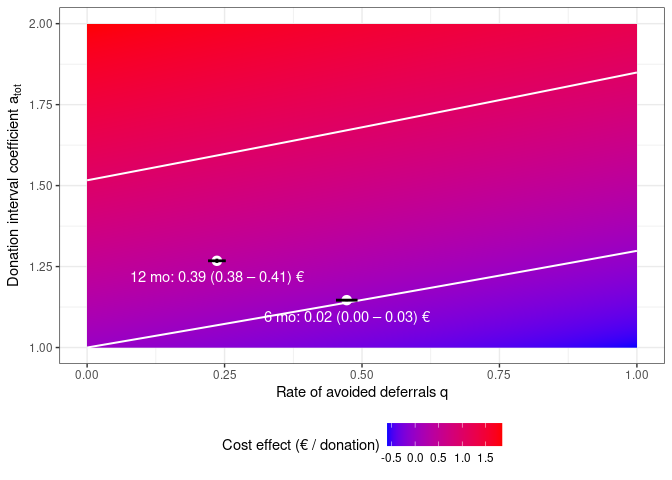
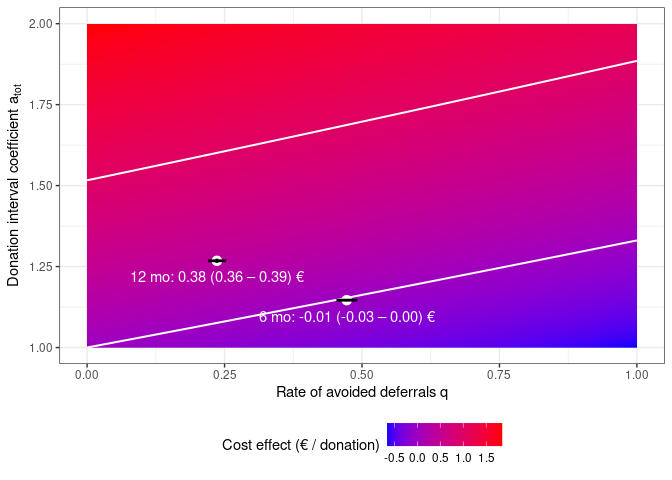
Yet again tweaked economic parameter values.

diff --git a/src/new_economic_parameters.md b/src/new_economic_parameters.md
@@ -2,7 +2,8 @@
 
 Try the economic effect calculations with the new parameters values.
 
-    new_fixed_parameters <- list(Pm=2.287, Pd=18.08, F=1, Fn=0.1066, rloss=0)
+    new_fixed_parameters <- list(Pm=2.287, Pd=19.96, F=1, Fn=0.1066, rloss=0)
+    #new_fixed_parameters <- list(Pm=2.287, Pd=18.08, F=1, Fn=0.1066, rloss=0)
 
     new_parameters <- c(data_parameters, new_fixed_parameters)
     if (compute) {
@@ -28,10 +29,10 @@ The cost surface below is for the random forest on eProgesa data.
     g <- draw_surface(results=all_results %>% filter(Id == "progesa-both-rf"), cost_function=do.call(cost_func_factory, new_parameters[c("Pm", "Pd", "F", "Fn", "rloss", "d")]))
 
     ## # A tibble: 2 × 11
-    ##   Id      month E_value   E_low E_high a_value a_low a_high q_value q_low q_high
-    ##   <chr>   <int>   <dbl>   <dbl>  <dbl>   <dbl> <dbl>  <dbl>   <dbl> <dbl>  <dbl>
-    ## 1 proges…     6  0.0151 0.00162 0.0284    1.15  1.14   1.15   0.472 0.453  0.492
-    ## 2 proges…    12  0.392  0.376   0.408     1.27  1.26   1.27   0.236 0.220  0.252
+    ##   Id     month E_value   E_low  E_high a_value a_low a_high q_value q_low q_high
+    ##   <chr>  <int>   <dbl>   <dbl>   <dbl>   <dbl> <dbl>  <dbl>   <dbl> <dbl>  <dbl>
+    ## 1 proge…     6 -0.0139 -0.0281 1.02e-4    1.15  1.14   1.15   0.472 0.453  0.491
+    ## 2 proge…    12  0.378   0.361  3.95e-1    1.27  1.26   1.27   0.236 0.220  0.253
 
     if (save_figs) {
       filename <- sprintf("%s/cme_cost_surface_werr.pdf", fig_path)
@@ -56,10 +57,10 @@ The cost surface below is for the random forest on eProgesa data.
 
     ## Saving 180 x 127 mm image
 
-    ## Warning: Removed 2 rows containing missing values (geom_pointrangeh).
+    ## Warning: Removed 1 rows containing missing values (geom_pointrangeh).
 
     g
 
-    ## Warning: Removed 2 rows containing missing values (geom_pointrangeh).
+    ## Warning: Removed 1 rows containing missing values (geom_pointrangeh).
 
 ![](new_economic_parameters_files/figure-markdown_strict/Performance%20plot-1.png)
